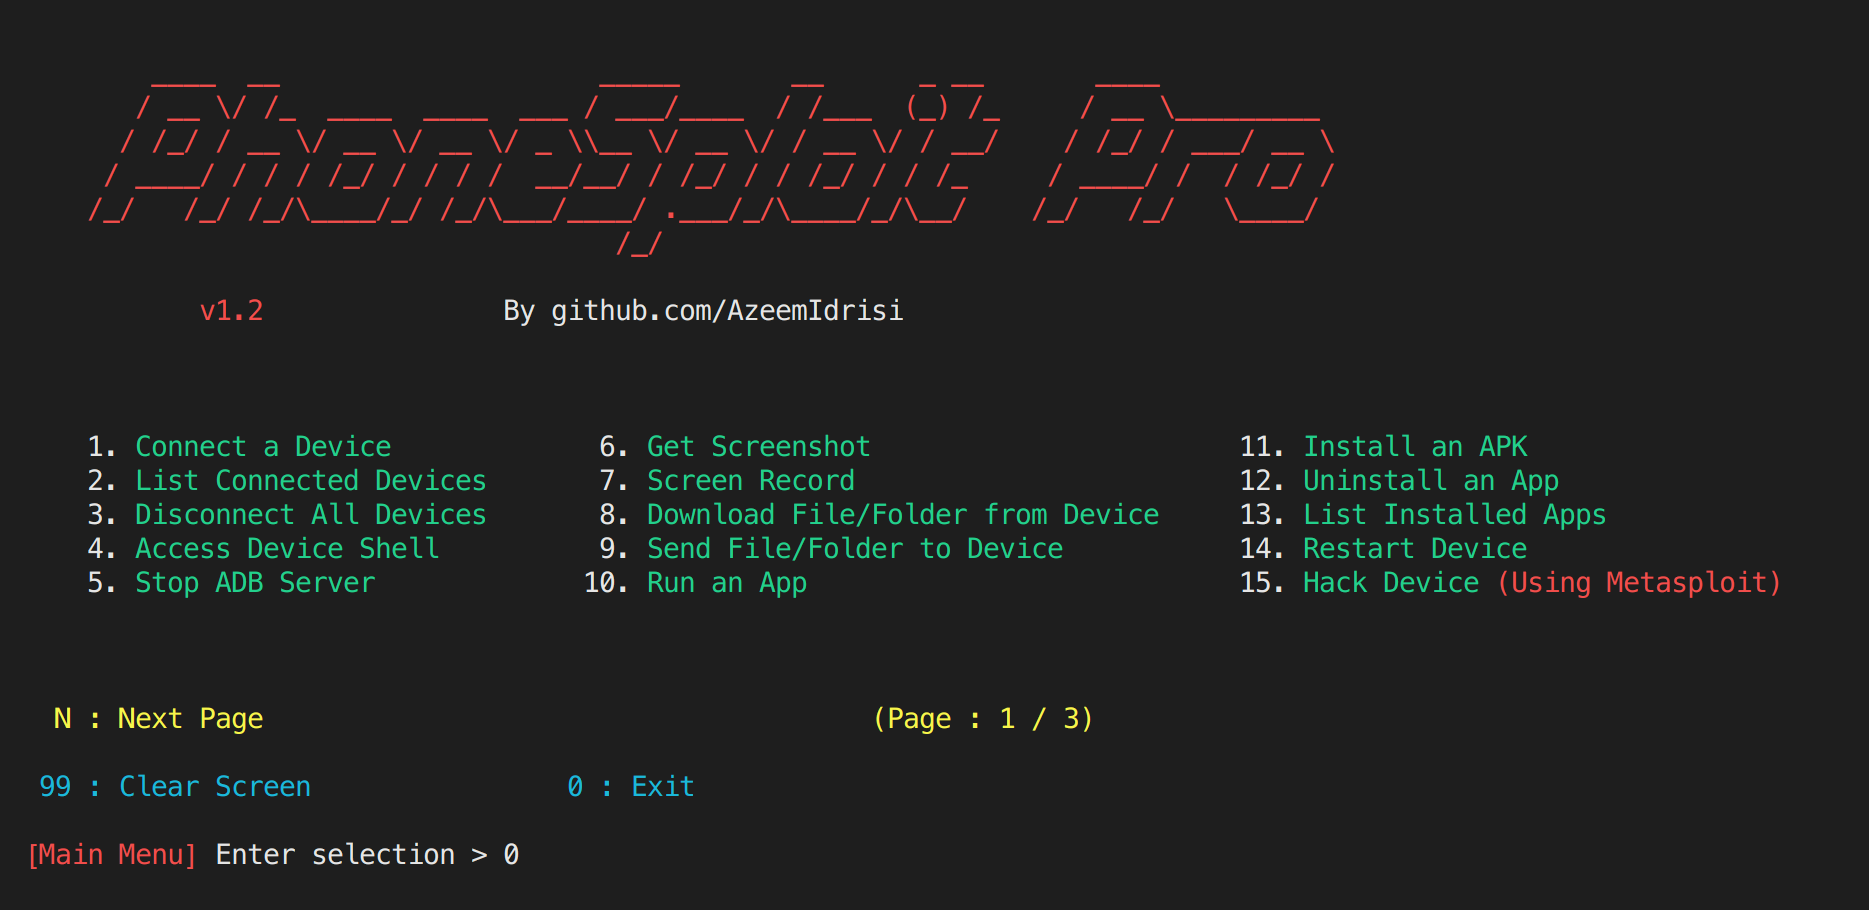
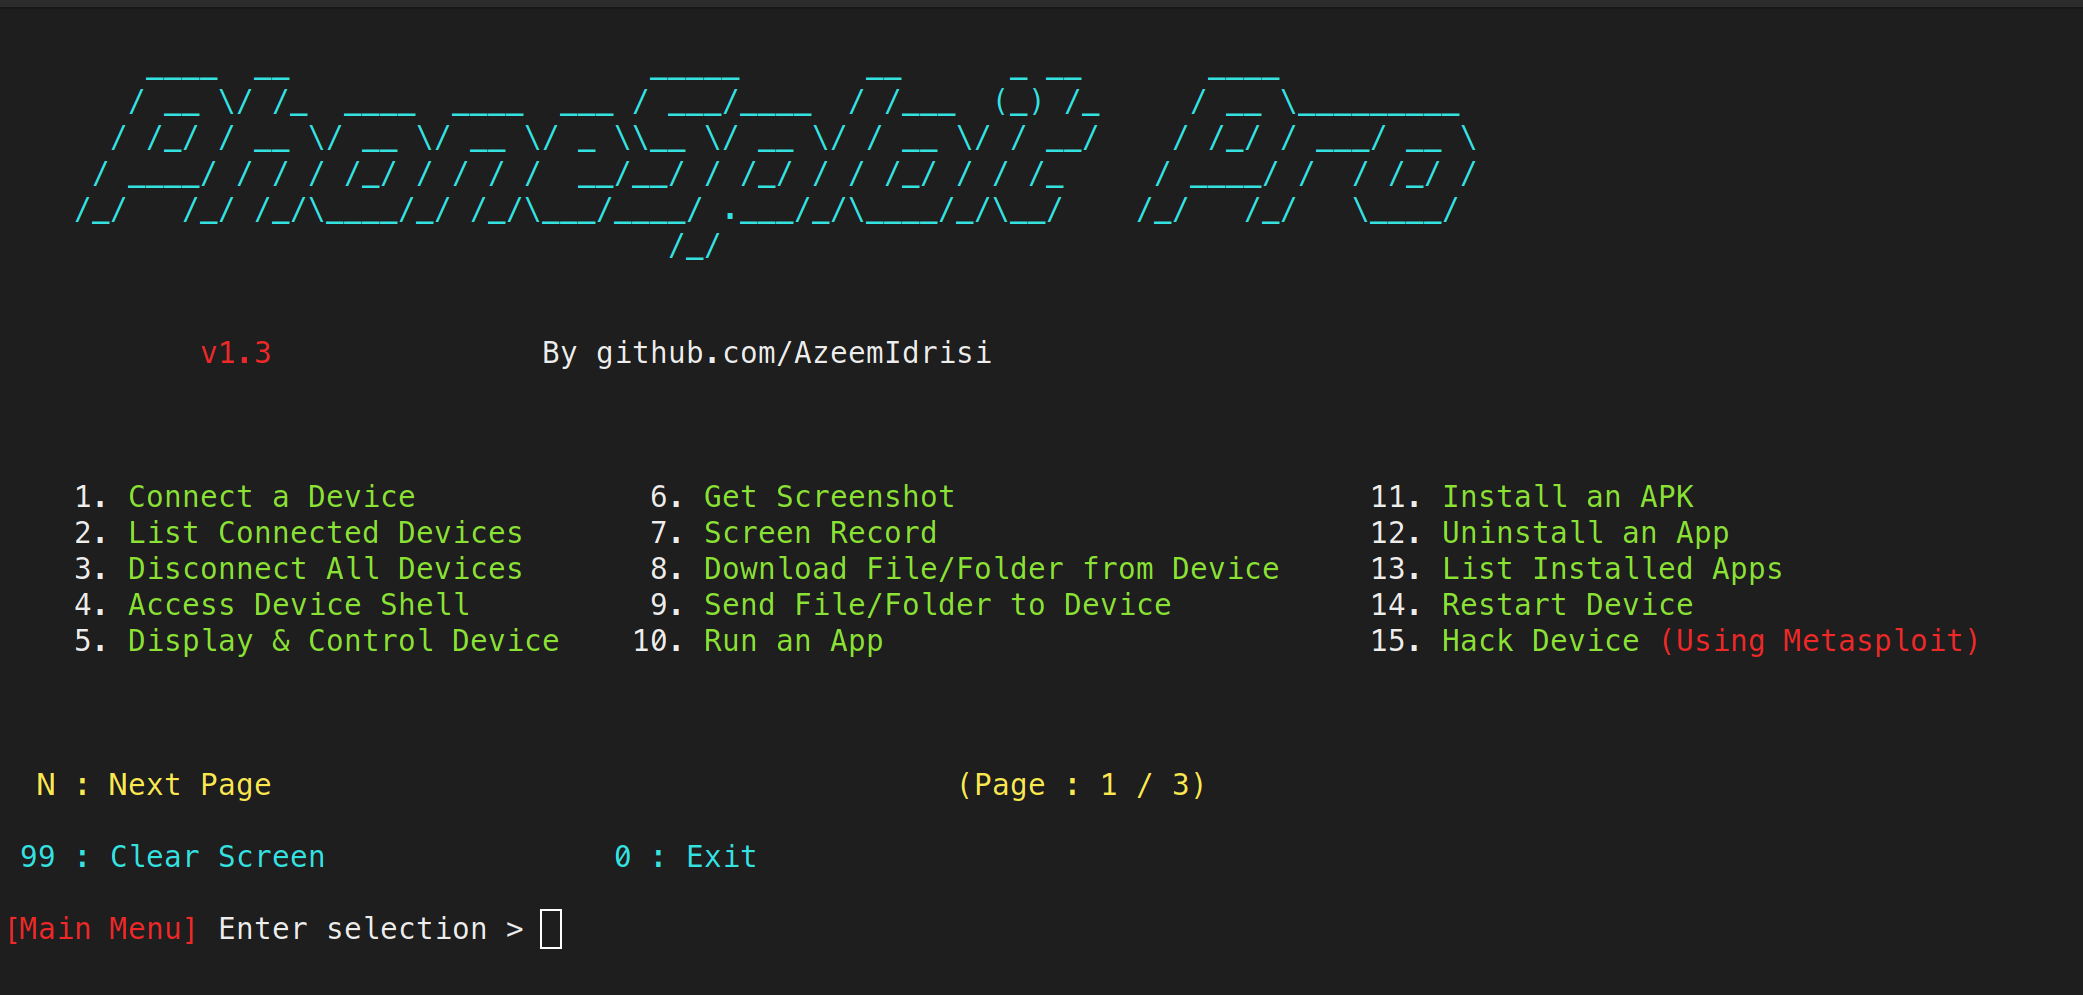
Updates about v1.3

diff --git a/modules/banner.py b/modules/banner.py
@@ -10,7 +10,7 @@ menu1 = f'''
     {color.WHITE}2. {color.GREEN}List Connected Devices       {color.WHITE}7. {color.GREEN}Screen Record                        {color.WHITE}12. {color.GREEN}Uninstall an App
     {color.WHITE}3. {color.GREEN}Disconnect All Devices       {color.WHITE}8. {color.GREEN}Download File/Folder from Device     {color.WHITE}13. {color.GREEN}List Installed Apps 
     {color.WHITE}4. {color.GREEN}Access Device Shell          {color.WHITE}9. {color.GREEN}Send File/Folder to Device           {color.WHITE}14. {color.GREEN}Restart Device
-    {color.WHITE}5. {color.GREEN}Display & Control Device    {color.WHITE}10. {color.GREEN}Run an App                           {color.WHITE}15. {color.GREEN}Hack Device {color.RED}(Using Metasploit)
+    {color.WHITE}5. {color.GREEN}Mirror & Control Device     {color.WHITE}10. {color.GREEN}Run an App                           {color.WHITE}15. {color.GREEN}Hack Device {color.RED}(Using Metasploit)
 
 
    {color.YELLOW} 

diff --git a/phonesploitpro.py b/phonesploitpro.py
@@ -961,7 +961,7 @@ def extract_apk():
         print("\n")
 
 
-def display_control():
+def mirror():
     os.system('scrcpy')
     print('\n')
 
@@ -991,7 +991,7 @@ def main():
         case '4':
             get_shell()
         case '5':
-            display_control()
+            mirror()
         case '6':
             get_screenshot()
         case '7':

diff --git a/README.md b/README.md
@@ -69,11 +69,15 @@ The goal of this project is to make penetration testing on Android devices easy.
 * Dump all Call Logs from device to computer.
 * Extract APK from an installed app.
 
+## v1.3
+
+* Mirror and Control the target device. 
 
 # Requirements  
 * [`python3`](https://www.python.org/) : Python 3.10 or Newer
 * [`adb`](https://developer.android.com/studio/command-line/adb) : Android Debug Bridge (ADB) from `Android SDK Platform Tools`
 * [`metasploit-framework`](https://www.metasploit.com/) : Metasploit-Framework (`msfvenom` and `msfconsole`)
+* [`scrcpy`](https://github.com/Genymobile/scrcpy) : Scrcpy (Screen Copy)
 
 # Run PhoneSploit Pro 
 
@@ -177,6 +181,10 @@ Visit this link : [Click Here](https://www.metasploit.com/download)
 
 or Follow this link : [Click Here](https://docs.metasploit.com/docs/using-metasploit/getting-started/nightly-installers.html#windows-anti-virus-software-flags-the-contents-of-these-packages)
 
+# Installing scrcpy
+
+Visit 'scrcpy' project on GitHub for latest installation instructions : [Click Here](https://github.com/Genymobile/scrcpy#get-the-app)
+
 
 # Tutorial
 
@@ -227,14 +235,14 @@ adb tcpip 5555
 
 # This tool is tested on
 
-- [x] Ubuntu
-- [x] Linux Mint
-- [x] Kali Linux
-- [x] Fedora
-- [x] Arch Linux
-- [x] Parrot Security OS
-- [x] Windows 11
-- [x] Termux
+-  ✅ Ubuntu
+-  ✅ Linux Mint
+-  ✅ Kali Linux
+-  ✅ Fedora
+-  ✅ Arch Linux
+-  ✅ Parrot Security OS
+-  ✅ Windows 11
+-  ✅ Termux (Android)
 - [ ] macOS
 
 All the new features are primarily tested on **Linux**, thus **Linux** is recommended for running PhoneSploit Pro.

diff --git a/docs/SECURITY.md b/docs/SECURITY.md
@@ -7,9 +7,10 @@ currently being supported with security updates. -->
 
 | Version | Supported          |
 | ------- | ------------------ |
-| v1.2   | ✔ |
-| v1.1   | ✔ |
-| v1.0   | ✔ |
+| v1.3   | ✅ |
+| v1.2   | ✅ |
+| v1.1   | ✅ |
+| v1.0   | ✅ |
 <!-- | < 4.0   | :x:                |
  -->
 ## Reporting a Vulnerability
